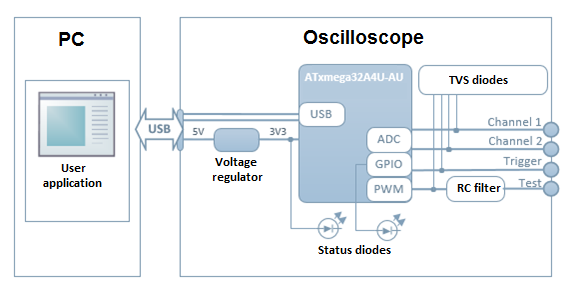
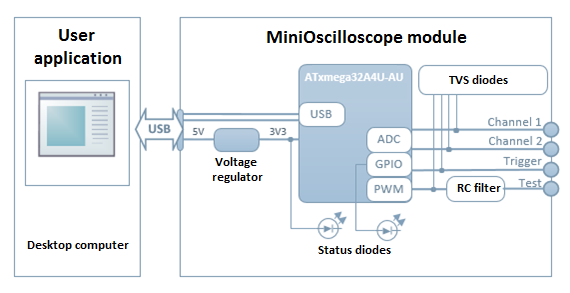
Initial version README

diff --git a/README.md b/README.md
@@ -1,0 +1,94 @@
+# MiniOscilloscope
+
+Design and implementation of a miniature oscilloscope module with a usb interface. The main use of the module is monitoring the signals SPI and I2C interfaces.
+
+## Table of Contents
+
+1. [Requirements](#requirements) 
+1. [System architecture](#system-architecture)
+1. [MiniOscilloscope module](#miniOscilloscope-module)
+	+ [Schematic](#schematic)
+	+ [PCB design](#pcb-design)
+	+ [Microcontroller program](#microcontroller-program)
+1. [User application](#user-application)
+1. [Tests](#tests)
+	+ [Functional tests](#functional-tests)
+	+ [Comparison USB and UART](#comparison-usb-and-uart)
+
+## Requirements
+
+#### Acquisition parameters:
+- time resolution of at least 15 samples per clock cycle (SPI / I2C)
+- 8bit voltage resolution
+- input voltage range 0 - 3.3V
+- two channels
+- trigger signal input
+- trigger mode: normal
+#### Parameters of the printed circuit:
+- minimum sizes
+- two-layer
+- elements on one side of PCB
+- possibility of manual PCB assembly
+#### Electrical parameters:
+- power supply from USB
+- surge protection
+#### User application:
+- displays observed signals in real time
+- allows you to manipulate presented graph
+- allows you to stop/start acquisition
+Other:
+- minimal construction cost
+- data transmission to PC using the USB interface
+- test signal output
+
+## System architecture
+
+<p align="center">
+  <img src="images/architecture.png" width="500">
+</p>
+
+**[Back to top](#table-of-contents)**
+
+## MiniOscilloscope module
+### Schematic
+
+<p align="center">
+  <img src="images/schematic.png" width="500">
+</p>
+
+### PCB design
+
+The PCB was designed in accordance with the assumptions set in Requirements paragraph. Parameters of the printed circuit:
+- dimensions: 22 x 32 mm,
+- two-layer circuit,
+- min track width: 8 mil
+- min space between tracks: 6 mil
+- min hole: 0.45 mm
+- min border: 11 mil
+- descriptions: TOP layer
+
+<p align="center">
+  <img src="images/pcb.png" width="700">
+</p>
+
+### Microcontroller program
+
+**[Back to top](#table-of-contents)**
+
+## User application
+
+<p align="center">
+  <img src="images/gui.png" width="700">
+</p>
+
+**[Back to top](#table-of-contents)**
+
+## Tests
+### Functional tests
+### Comparison USB and UART
+
+<p align="center">
+  <img src="images/usb_uart_test.png" width="700">
+</p>
+
+**[Back to top](#table-of-contents)**
